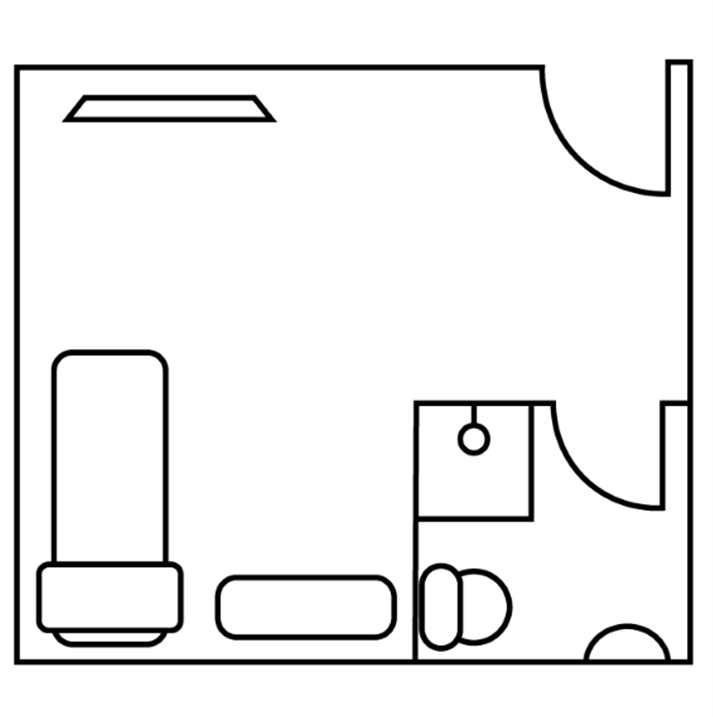
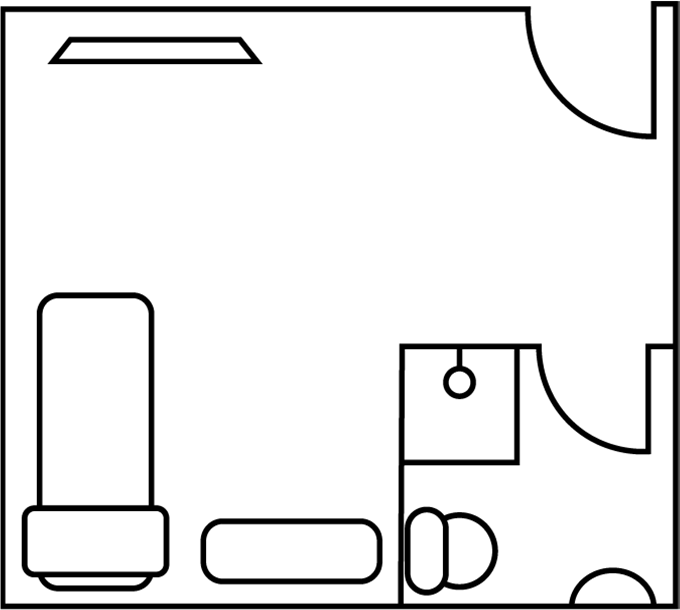
agregadas las imagenes corregidas y agregado el font family a los botones

Changed region(s): [[0.0, 0.0, 1.0, 1.0]]

diff --git a/proyecto/assets/css/recepcionista_escenas.css b/proyecto/assets/css/recepcionista_escenas.css
@@ -25,6 +25,8 @@
 }
 .button{
     -fx-background-color: white;
+    -fx-font-family: "MAXWELL REGULAR";
+    -fx-font-size: 20;
 }
 .navbar__button {
     -fx-background-color: #2E1E1E;
@@ -97,51 +99,55 @@
 .seleccion_hab__hab_triple_up {
     -fx-background-image: url("../images/hab_triple_up.png");
     -fx-background-position: center;
-    -fx-background-size: 110%;
+    -fx-background-size: 100%;
     -fx-background-repeat: no-repeat;
+    -fx-padding:  30 0 0 0;
 
 }
 .seleccion_hab__hab_triple_down {
     -fx-background-image: url("../images/hab_triple_down.png");
     -fx-background-position: center;
-    -fx-background-size: 110%;
+    -fx-background-size: 100%;
     -fx-background-repeat: no-repeat;
+    -fx-padding:  0 0 30 0;
 
 }
 .seleccion_hab__hab_doble1_up
 {
     -fx-background-image: url("../images/hab_doble1_up.png");
     -fx-background-position: center;
-    -fx-background-size: 105%;
+    -fx-background-size: 100%;
     -fx-background-repeat: no-repeat;
 }
 .seleccion_hab__hab_doble1_down
 {
     -fx-background-image: url("../images/hab_doble1_down.png");
     -fx-background-position: center;
-    -fx-background-size: 105%;
+    -fx-background-size: 100%;
     -fx-background-repeat: no-repeat;
 }
 .seleccion_hab__hab_doble2_up
 {
     -fx-background-image: url("../images/hab_doble2_up.png");
     -fx-background-position: center;
-    -fx-background-size: 105%;
+    -fx-background-size: 100%;
     -fx-background-repeat: no-repeat;
+    -fx-padding:  20 0 0 0;
 }
 .seleccion_hab__hab_doble2_down
 {
     -fx-background-image: url("../images/hab_doble2_down.png");
     -fx-background-position: center;
-    -fx-background-size: 105%;
+    -fx-background-size: 100%;
     -fx-background-repeat: no-repeat;
+    -fx-padding:  0 0 20 0;
 }
 
 .seleccion_hab__hab_sencilla_up
 {
     -fx-background-image: url("../images/hab_sencilla_up.png");
     -fx-background-position: center;
-    -fx-background-size: 105%;
+    -fx-background-size: 100%;
     -fx-background-repeat: no-repeat;
 }
 
@@ -149,7 +155,7 @@
 {
     -fx-background-image: url("../images/hab_sencilla_down.png");
     -fx-background-position: center;
-    -fx-background-size: 105%;
+    -fx-background-size: 100%;
     -fx-background-repeat: no-repeat;
 }
 
